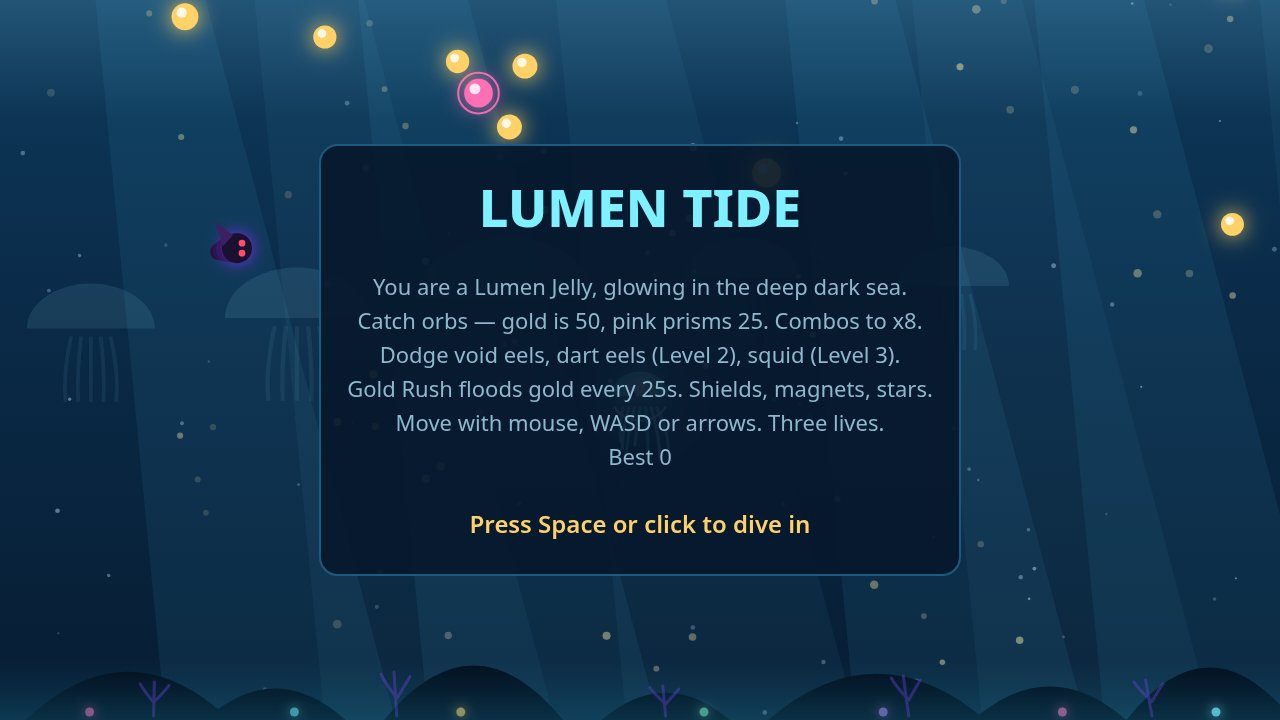
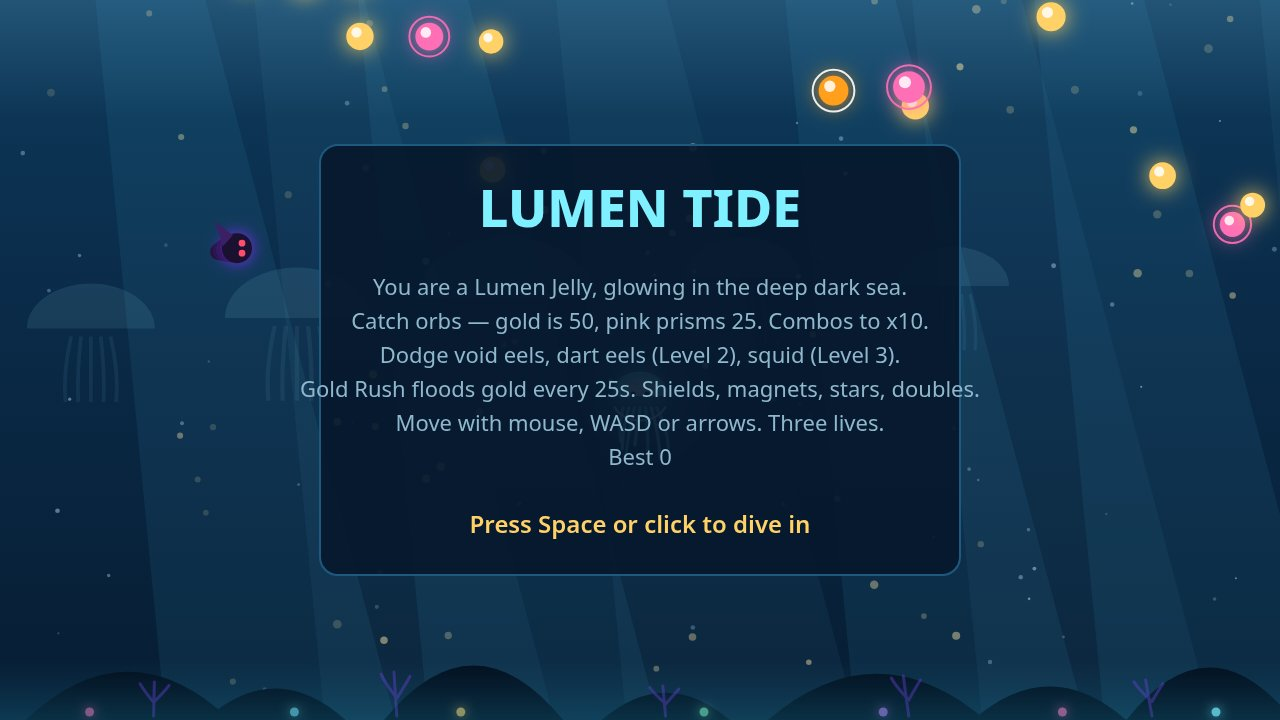
Lumen Tide round 5: combos to x10, denser orbs, double-points power-up, level bonuses

diff --git a/game/src/world.js b/game/src/world.js
@@ -30,6 +30,8 @@ export const KIND_MAGNET = 4;
 export const KIND_STAR = 5;
 export const KIND_DART = 6;
 export const KIND_SQUID = 7;
+/** Double-points power-up: orbs pay double while it lasts. */
+export const KIND_DOUBLE = 8;
 
 export const EVENT_HIT = 1;
 export const EVENT_ORB = 2;
@@ -53,6 +55,8 @@ export function createWorld(random) {
     invulnerable: 0,
     shield: 0,
     magnet: 0,
+    /** Double-points timer, in seconds. */
+    double: 0,
     /** Bell pulse phase, for the swimming animation. */
     pulse: 0,
     /** Facing: -1 left, 1 right (for the tentacle sway). */
@@ -115,6 +119,7 @@ export function createWorld(random) {
     player.invulnerable = 0;
     player.shield = 0;
     player.magnet = 0;
+    player.double = 0;
     player.pulse = 0;
     player.facing = 1;
     player.vx = 0;
@@ -311,7 +316,7 @@ export function createWorld(random) {
     if (item === null) return;
     const roll = random();
     item.active = true;
-    item.kind = roll < 0.4 ? KIND_SHIELD : roll < 0.75 ? KIND_MAGNET : KIND_STAR;
+    item.kind = roll < 0.35 ? KIND_SHIELD : roll < 0.65 ? KIND_MAGNET : roll < 0.85 ? KIND_STAR : KIND_DOUBLE;
     item.radius = POWERUP.radius;
     item.x = 60 + random() * (FIELD.width - 120);
     item.y = -30;
@@ -369,6 +374,9 @@ export function createWorld(random) {
     if (newLevel !== state.level) {
       state.level = newLevel;
       state.banner = { text: `LEVEL ${newLevel}`, sub: 'The tide quickens', timer: 1.8 };
+      const bonus = 50 * newLevel;
+      state.score += bonus;
+      popup(player.x, player.y - 44, `LEVEL BONUS +${bonus}`, '#7ef0ff', 24);
       events |= EVENT_LEVEL;
     }
 
@@ -376,6 +384,7 @@ export function createWorld(random) {
     player.pulse += dt * 6;
     if (player.invulnerable > 0) player.invulnerable = Math.max(0, player.invulnerable - dt);
     if (player.magnet > 0) player.magnet = Math.max(0, player.magnet - dt);
+    if (player.double > 0) player.double = Math.max(0, player.double - dt);
     if (state.shake > 0) state.shake = Math.max(0, state.shake - dt * 26);
     if (state.flash > 0) state.flash = Math.max(0, state.flash - dt * 2.2);
     if (state.banner !== null) {
@@ -553,7 +562,7 @@ export function createWorld(random) {
             popup(player.x, player.y - 44, `MAX COMBO x${COMBO.max}!`, '#ff9f1c', 28);
           }
           const base = item.gold ? ORB.goldPoints : item.pink ? ORB.pinkPoints : ORB.points;
-          const gained = base * state.combo;
+          const gained = base * state.combo * (player.double > 0 ? 2 : 1);
           state.score += gained;
           const color = item.gold ? '#ff9f1c' : item.pink ? '#ff6fb5' : '#ffd166';
           popup(item.x, item.y - 10, item.gold ? `GOLD +${gained}` : `+${gained}`, color, item.gold ? 26 : 20);
@@ -670,6 +679,10 @@ export function createWorld(random) {
             player.magnet = POWERUP.magnetSeconds;
             popup(item.x, item.y - 12, 'MAGNET!', '#c084fc', 22);
             burst(item.x, item.y, '#c084fc', 14, 190);
+          } else if (item.kind === KIND_DOUBLE) {
+            player.double = POWERUP.doubleSeconds;
+            popup(item.x, item.y - 12, 'DOUBLE! 2x points', '#ff5df2', 22);
+            burst(item.x, item.y, '#ff5df2', 14, 190);
           } else {
             // Starburst: clear every eel, squid and ink cloud on screen.
             for (const other of items) {

diff --git a/game/src/render.js b/game/src/render.js
@@ -4,7 +4,7 @@
 // deep sea: light rays from the surface, drifting bubbles, a pulsing jellyfish with
 // trailing tentacles, glowing orbs, serpentine void eels and ink clouds.
 import { COMBO, DART, EEL, FIELD, FONT, LIVES, PALETTE } from './config.js';
-import { KIND_DART, KIND_EEL, KIND_INK, KIND_MAGNET, KIND_ORB, KIND_SHIELD, KIND_SQUID, KIND_STAR } from './world.js';
+import { KIND_DART, KIND_DOUBLE, KIND_EEL, KIND_INK, KIND_MAGNET, KIND_ORB, KIND_SHIELD, KIND_SQUID, KIND_STAR } from './world.js';
 import { drawScenery } from './scenery.js';
 
 export const SCREEN_TITLE = 'title';
@@ -230,7 +230,7 @@ export function createRenderer(canvas) {
   }
 
   function drawPowerup(item) {
-    const colors = { [KIND_SHIELD]: PALETTE.shield, [KIND_MAGNET]: PALETTE.magnet, [KIND_STAR]: PALETTE.star };
+    const colors = { [KIND_SHIELD]: PALETTE.shield, [KIND_MAGNET]: PALETTE.magnet, [KIND_STAR]: PALETTE.star, [KIND_DOUBLE]: PALETTE.double };
     const color = colors[item.kind] || '#fff';
     const bob = Math.sin(item.t * 3 + item.phase) * 3;
     const y = item.y + bob;
@@ -248,7 +248,7 @@ export function createRenderer(canvas) {
     context.textAlign = 'center';
     context.textBaseline = 'middle';
     context.font = `bold 20px ${FONT}`;
-    const glyph = item.kind === KIND_SHIELD ? '◉' : item.kind === KIND_MAGNET ? '◎' : '★';
+    const glyph = item.kind === KIND_SHIELD ? '◉' : item.kind === KIND_MAGNET ? '◎' : item.kind === KIND_DOUBLE ? '×2' : '★';
     context.fillText(glyph, item.x, y + 1);
     context.restore();
   }
@@ -471,6 +471,10 @@ export function createRenderer(canvas) {
     }
     if (state.player.magnet > 0) {
       text(`◎ Magnet ${Math.ceil(state.player.magnet)}s`, 26, ty, 20, PALETTE.magnet, 'left', '600');
+      ty += 26;
+    }
+    if (state.player.double > 0) {
+      text(`×2 Double ${Math.ceil(state.player.double)}s`, 26, ty, 20, PALETTE.double, 'left', '700');
     }
     void best;
   }
@@ -498,9 +502,9 @@ export function createRenderer(canvas) {
 
   const TITLE_LINES = [
     'You are a Lumen Jelly, glowing in the deep dark sea.',
-    'Catch orbs — gold is 50, pink prisms 25. Combos to x8.',
+    'Catch orbs — gold is 50, pink prisms 25. Combos to x10.',
     'Dodge void eels, dart eels (Level 2), squid (Level 3).',
-    'Gold Rush floods gold every 25s. Shields, magnets, stars.',
+    'Gold Rush floods gold every 25s. Shields, magnets, stars, doubles.',
     'Move with mouse, WASD or arrows. Three lives.',
     '',
   ];

diff --git a/game/src/config.js b/game/src/config.js
@@ -20,28 +20,28 @@ export const PLAYER = {
 export const LIVES = 3;
 
 /** Combo: collecting orbs within this many seconds of each other raises the multiplier.
- *  At x6 the combo turns FEVER: the badge turns red and orbs pay out at the fever rate. */
-export const COMBO = { window: 3.0, max: 8, feverAt: 6 };
+ *  At x7 the combo turns FEVER: the badge turns red and orbs pay out at the fever rate. */
+export const COMBO = { window: 3.5, max: 10, feverAt: 7 };
 
 export const ORB = {
   radius: 13,
   /** Drift speed of a fresh orb (it bobs and slowly sinks). */
   speed: 46,
   speedPerLevel: 4,
-  interval: 0.6,
+  interval: 0.5,
   intervalScale: 0.92,
   minInterval: 0.3,
   /** Base points; multiplied by the combo. */
   points: 10,
   /** Golden orbs are rare and worth much more. */
-  goldChance: 0.1,
+  goldChance: 0.12,
   goldPoints: 50,
   /** Pink prism orbs sit between the two: uncommon, worth 25. */
-  pinkChance: 0.13,
+  pinkChance: 0.16,
   pinkPoints: 25,
   /** Plankton bloom: this chance of an orb spawn drops a 3-orb arc instead of one orb,
    *  so the sea sometimes offers a whole mouthful at once. */
-  bloomChance: 0.25,
+  bloomChance: 0.35,
 };
 
 export const EEL = {
@@ -118,6 +118,8 @@ export const POWERUP = {
   interval: 11,
   magnetSeconds: 8,
   shieldHits: 1,
+  /** Double-points window, in seconds. */
+  doubleSeconds: 10,
 };
 
 export const LEVEL = { orbsPerLevel: 15, max: 12 };
@@ -154,6 +156,7 @@ export const PALETTE = {
   shield: '#8affc1',
   magnet: '#c084fc',
   star: '#ffe66d',
+  double: '#ff5df2',
   panel: 'rgba(6, 24, 44, 0.92)',
   panelEdge: '#1d5a80',
   text: '#eaf6ff',

diff --git a/main.ts b/main.ts
@@ -5,10 +5,10 @@
 // /output/dossier.json, the summary the judge reads, with the vendored make.fun library.
 //
 // Lumen Tide: you are a glowing jellyfish in a bioluminescent deep sea. Catch the golden
-// plankton orbs and chain them into combos up to x8 (FEVER from x6); dodge the void eels,
-// dart eels, stalker squid and ink clouds; grab shield, magnet and starburst power-ups.
-// Plankton blooms drop three orbs at once and a Gold Rush floods the tide with gold every
-// 25s. Three lives, rising levels, a title screen, pause, game over and restart,
+// plankton orbs and chain them into combos up to x10 (FEVER from x7); dodge the void eels,
+// dart eels, stalker squid and ink clouds; grab shield, magnet, starburst and double-points
+// power-ups. Plankton blooms drop three orbs at once and a Gold Rush floods the tide with gold every
+// 25s; every level-up pays a bonus. Three lives, rising levels, a title screen, pause, game over and restart,
 // synthesised WebAudio sound, and screenshot scenes staged by ?shot=start|play|end.
 //
 // Serve it locally with `node serve.ts`, then open http://localhost:8080.

diff --git a/README.md b/README.md
@@ -6,14 +6,15 @@
 
 **Lumen Tide** — a bioluminescent deep-sea arcade game. You are a Lumen Jelly, a glowing
 jellyfish drifting through the dark deep sea. Catch the plankton orbs and chain them
-into combos up to **x8** — at x6 the combo turns **FEVER** and the badge burns red:
+into combos up to **x10** — at x7 the combo turns **FEVER** and the badge burns red:
 plain orbs are 10, rare **gold** orbs are 50, and **pink prism** orbs are 25 — all
 multiplied by your combo. Orbs sometimes arrive as a **plankton bloom**, a whole arc
 of three at once. Every 25 seconds a **Gold Rush** floods the tide with gold orbs.
 Dodge the void eels that swim in sine waves, the **dart eels** that streak across from
 Level 2, the **stalker squid** that hunts you from Level 3, and the drifting ink clouds.
-Three lives, rising levels, and three power-ups: a **shield bubble** (one free hit),
-a **magnet** (orbs fly to you for 8s), and a **starburst** (clears every enemy on screen).
+Three lives, rising levels, and four power-ups: a **shield bubble** (one free hit),
+a **magnet** (orbs fly to you for 8s), a **starburst** (clears every enemy on screen),
+and **double points** (orbs pay 2x for 10s). Every level-up pays a bonus of 50 × level.
 A glowing trail follows you, score popups float up from every catch, and level banners
 announce the quickening tide.
 
